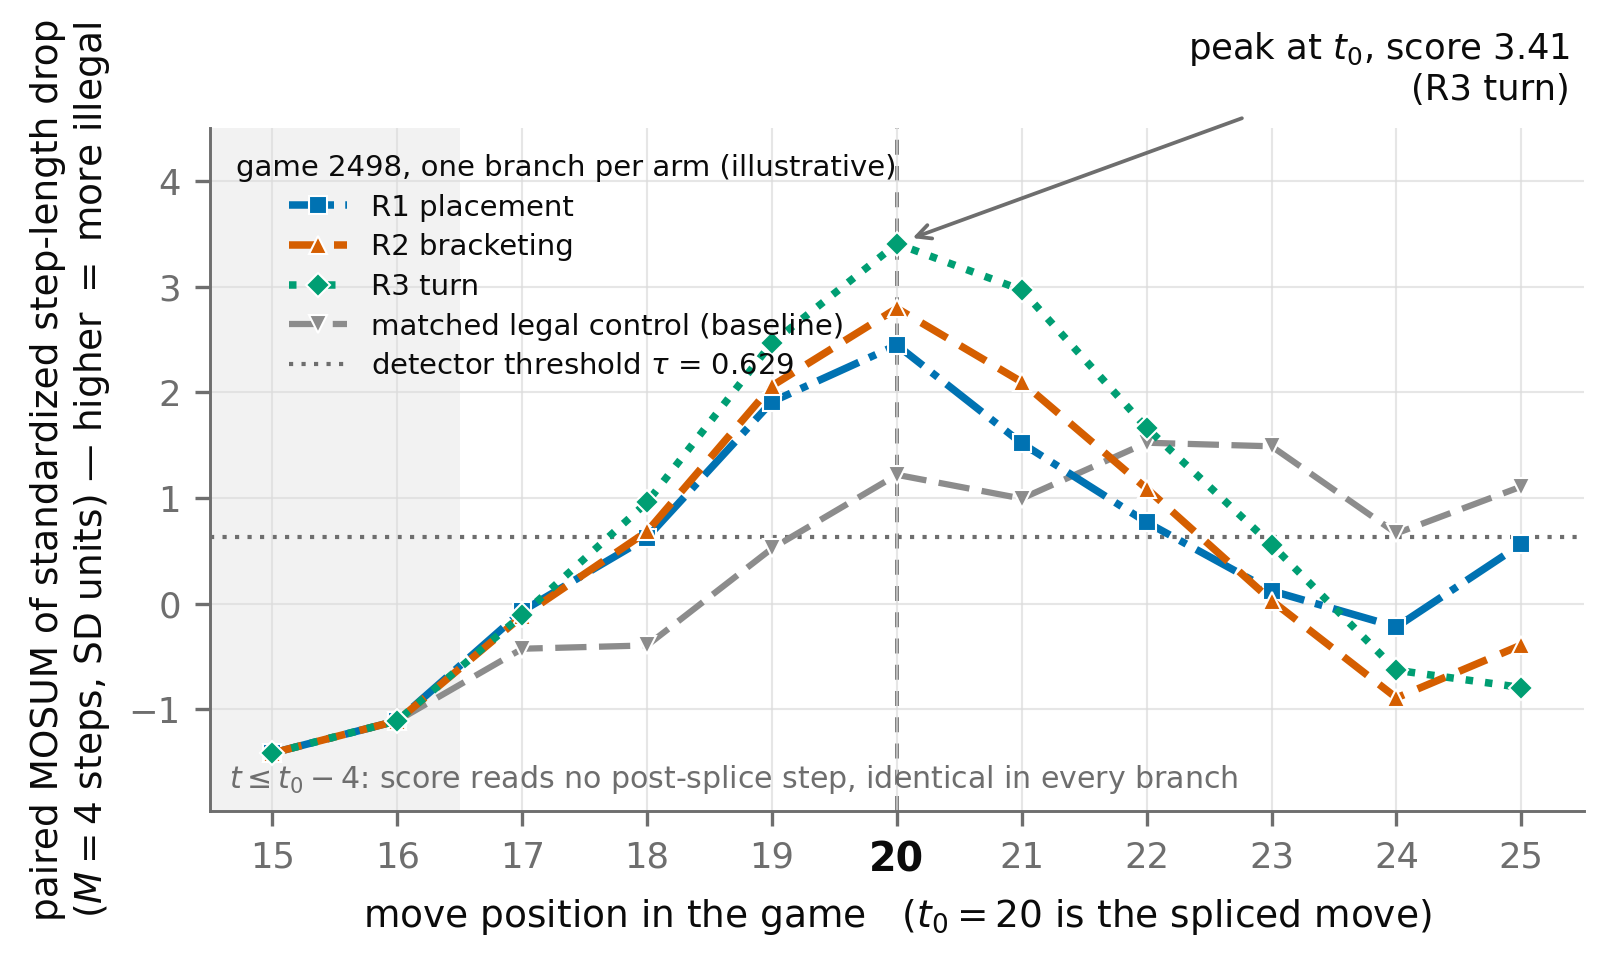
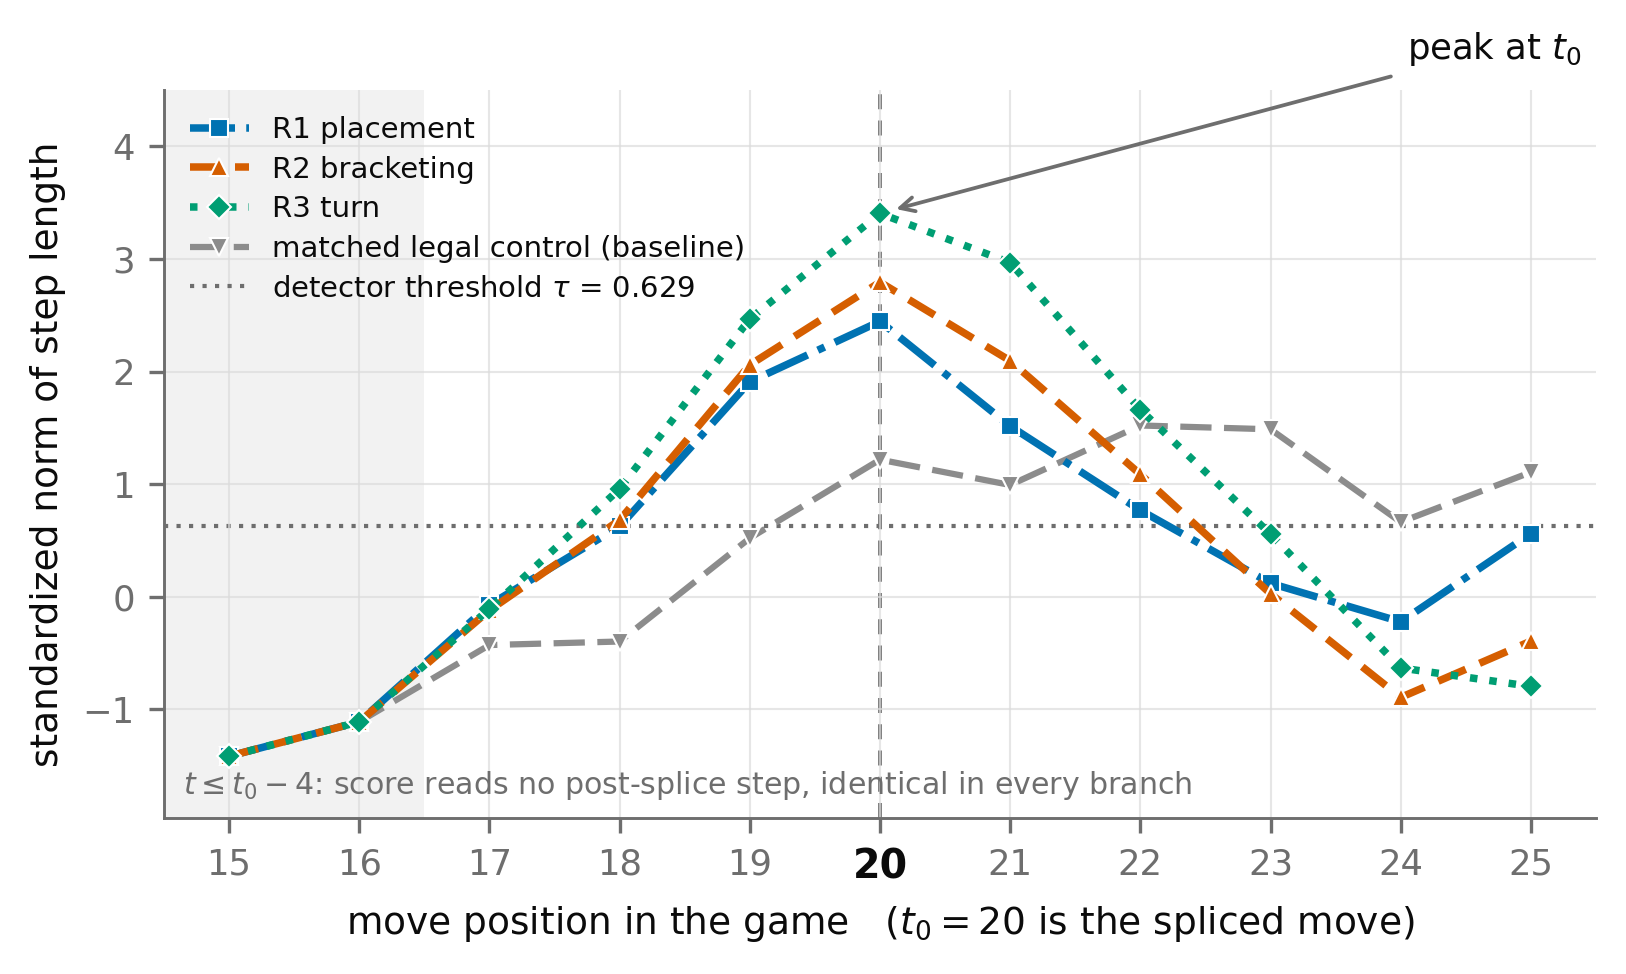
detector_trace: plainer labels
The legend loses its "game 2498, one branch per arm (illustrative)" title,
the callout is just "peak at t0", and the y axis reads "standardized norm of
step length". Which game it is and that it is illustrative are the README's
job, where they already are.

diff --git a/analysis/violation_divergence/illegal_move_detector/figure_trace.py b/analysis/violation_divergence/illegal_move_detector/figure_trace.py
@@ -70,8 +70,7 @@ def draw(game: dict, move: np.ndarray, s: np.ndarray, tau: float, camera_ready: 
     ax.set_ylim(trace.min() - 0.55, trace.max() + 1.1)
     ax.set_xticks(window)
     ax.set_xlabel(f"move position in the game   ($t_0 = {t0}$ is the spliced move)")
-    ax.set_ylabel("paired MOSUM of standardized step-length drop\n"
-                  f"($M = {M}$ steps, SD units) — higher $=$ more illegal")
+    ax.set_ylabel("standardized norm of step length")
     for tick, text in zip(ax.get_xticks(), ax.get_xticklabels()):
         if tick == t0:
             text.set(color=INK, fontweight="bold", fontsize=9.5)
@@ -81,8 +80,7 @@ def draw(game: dict, move: np.ndarray, s: np.ndarray, tau: float, camera_ready: 
             color=MUTED, fontsize=7.2, ha="left", va="bottom")
 
     top = max(RULES, key=lambda r: s[rows[r], take[HALF]])
-    ax.annotate(f"peak at $t_0$, score {s[rows[top], take[HALF]]:.2f}\n"
-                f"({ARM_STYLE[top]['label']})",
+    ax.annotate("peak at $t_0$",
                 xy=(t0, s[rows[top], take[HALF]]), xytext=(0.99, 1.03),
                 textcoords="axes fraction", ha="right", va="bottom", fontsize=8.5, color=INK,
                 arrowprops={"arrowstyle": "->", "color": MUTED, "lw": 0.9, "shrinkB": 4})
@@ -90,9 +88,8 @@ def draw(game: dict, move: np.ndarray, s: np.ndarray, tau: float, camera_ready: 
     # game's scale every clear stretch of the tau line is crossed by a curve.
     ax.plot([], [], color=MUTED, ls=(0, (1, 2)), lw=1.0,
             label=f"detector threshold $\\tau$ = {tau:.3f}")
-    ax.legend(title=f"game {game['game_id']}, one branch per arm (illustrative)",
-              loc="upper left", fontsize=7, title_fontsize=7, handlelength=2.0,
-              labelspacing=0.4, borderaxespad=0.5)
+    ax.legend(loc="upper left", fontsize=7, handlelength=2.0, labelspacing=0.4,
+              borderaxespad=0.5)
     fig.tight_layout()
     return save_figure(fig, FIGURES / "detector_trace", camera_ready)
 
